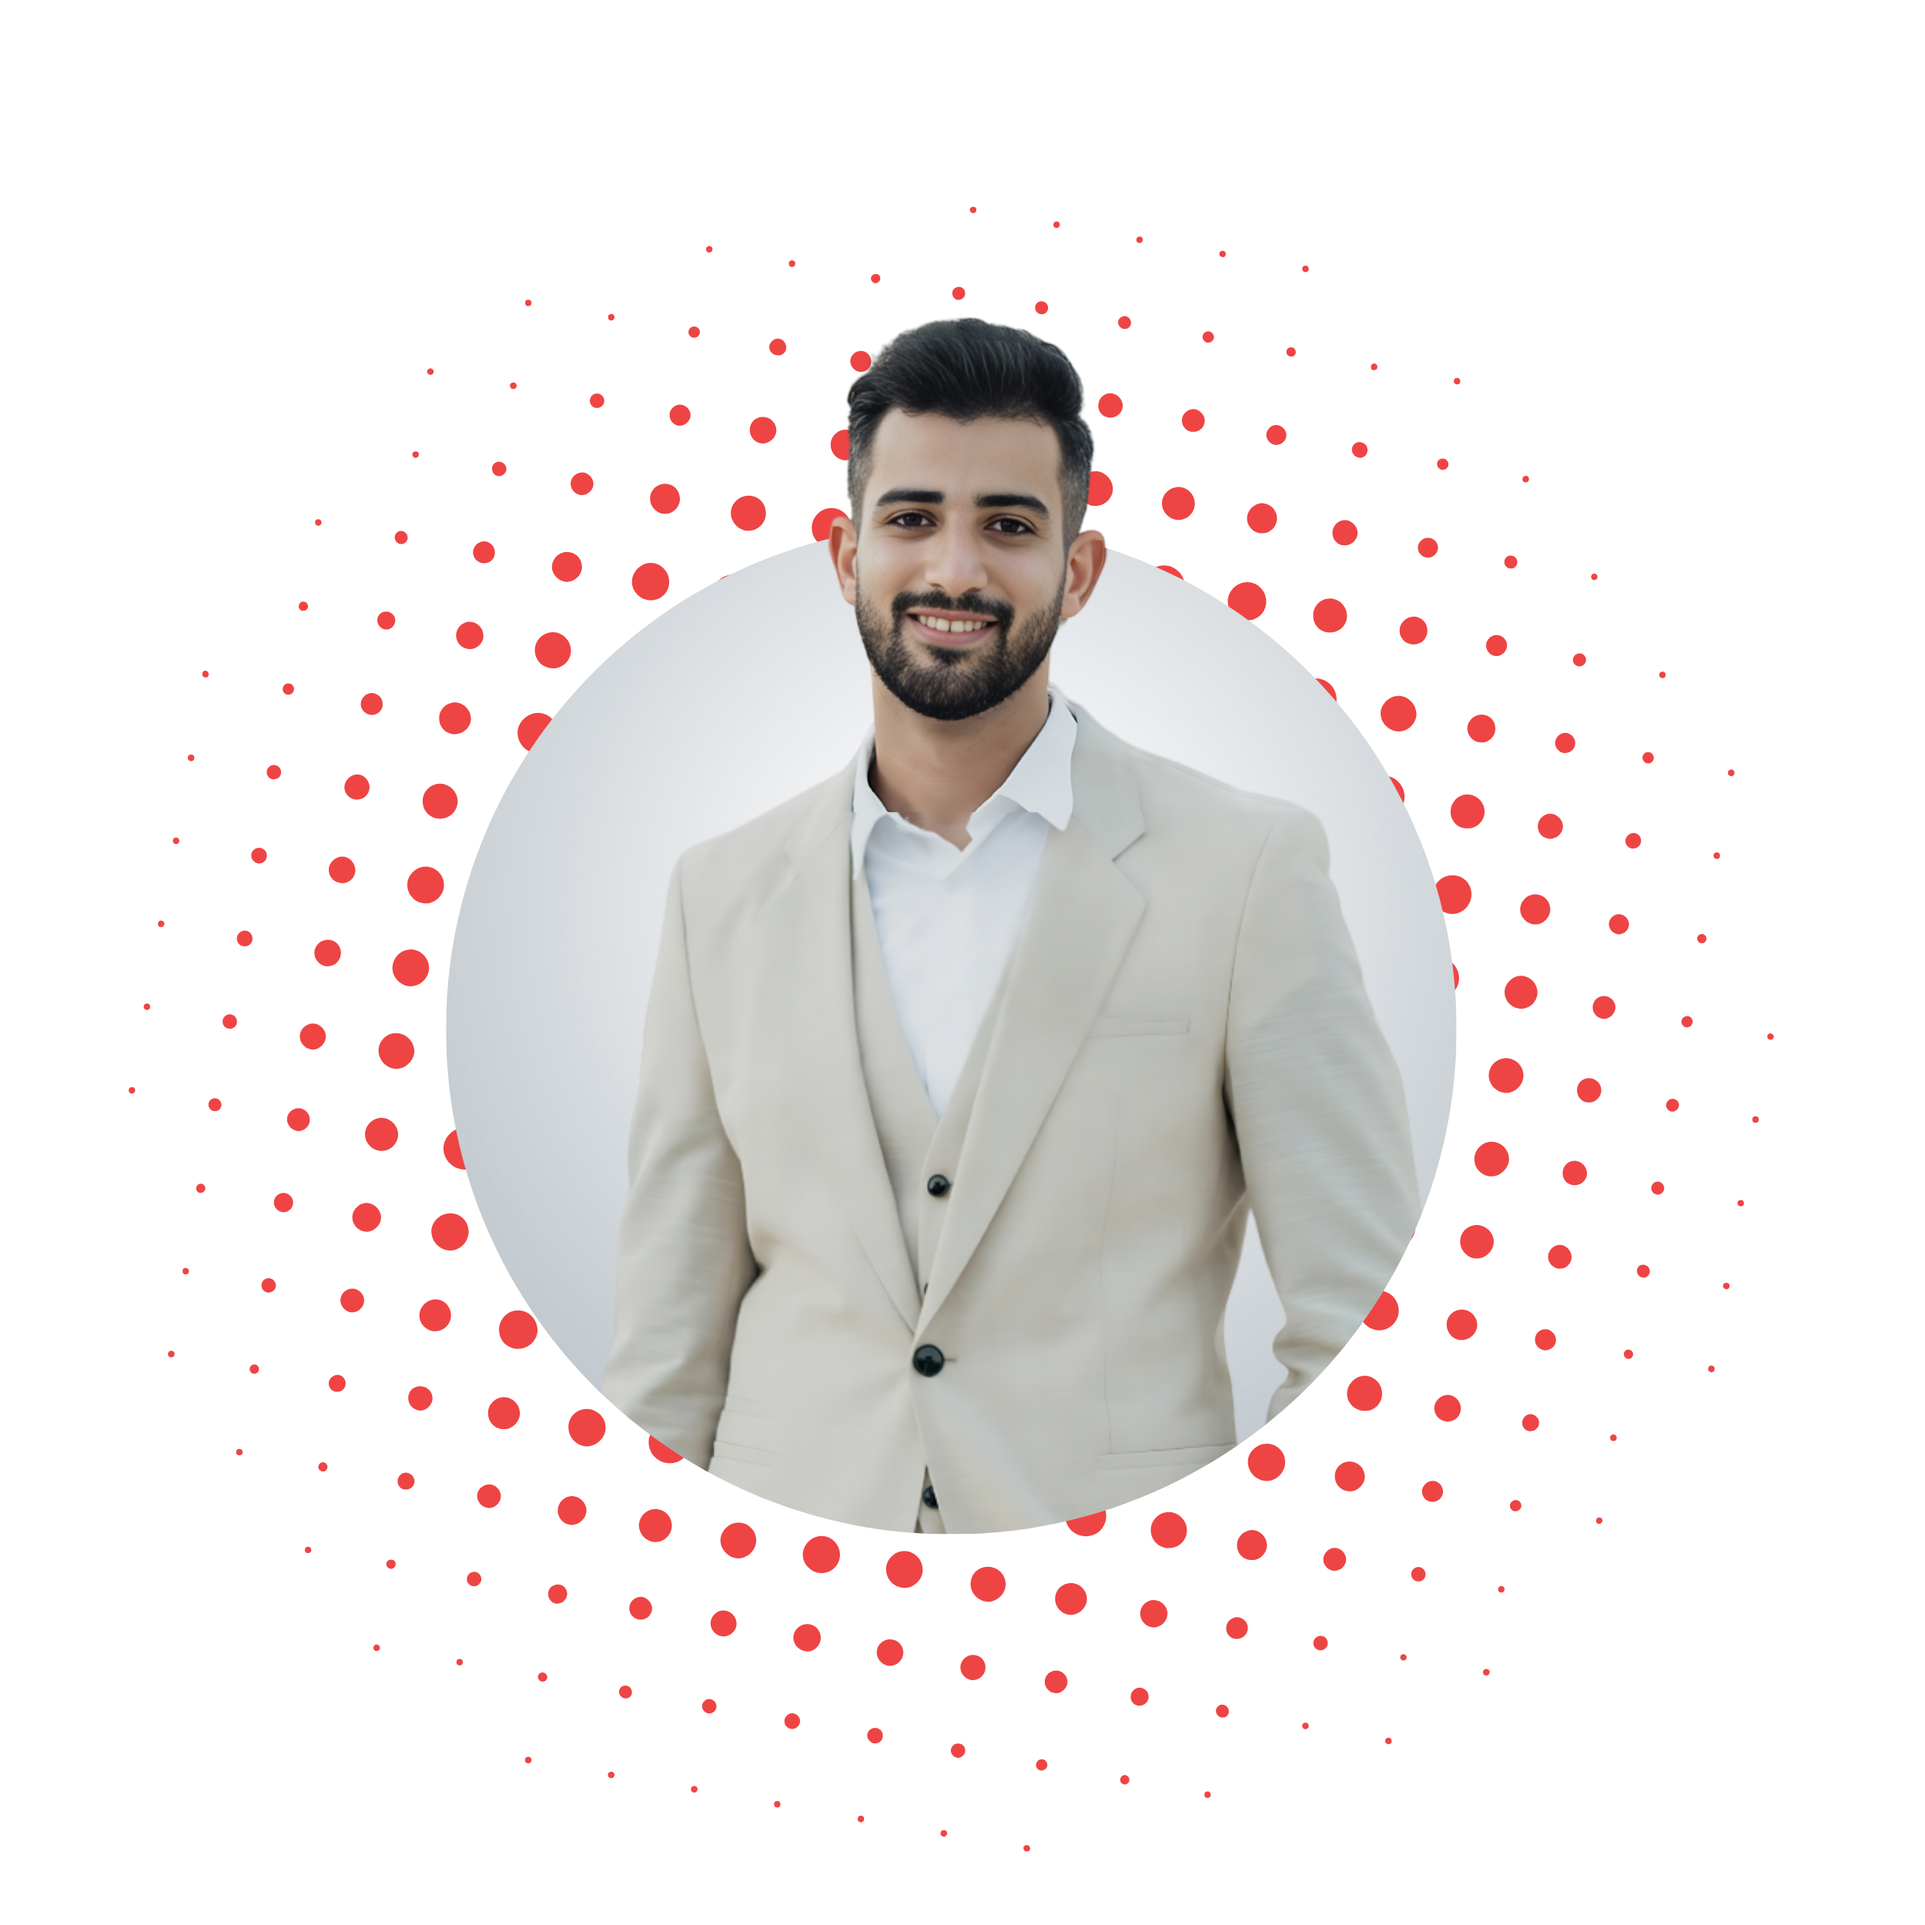
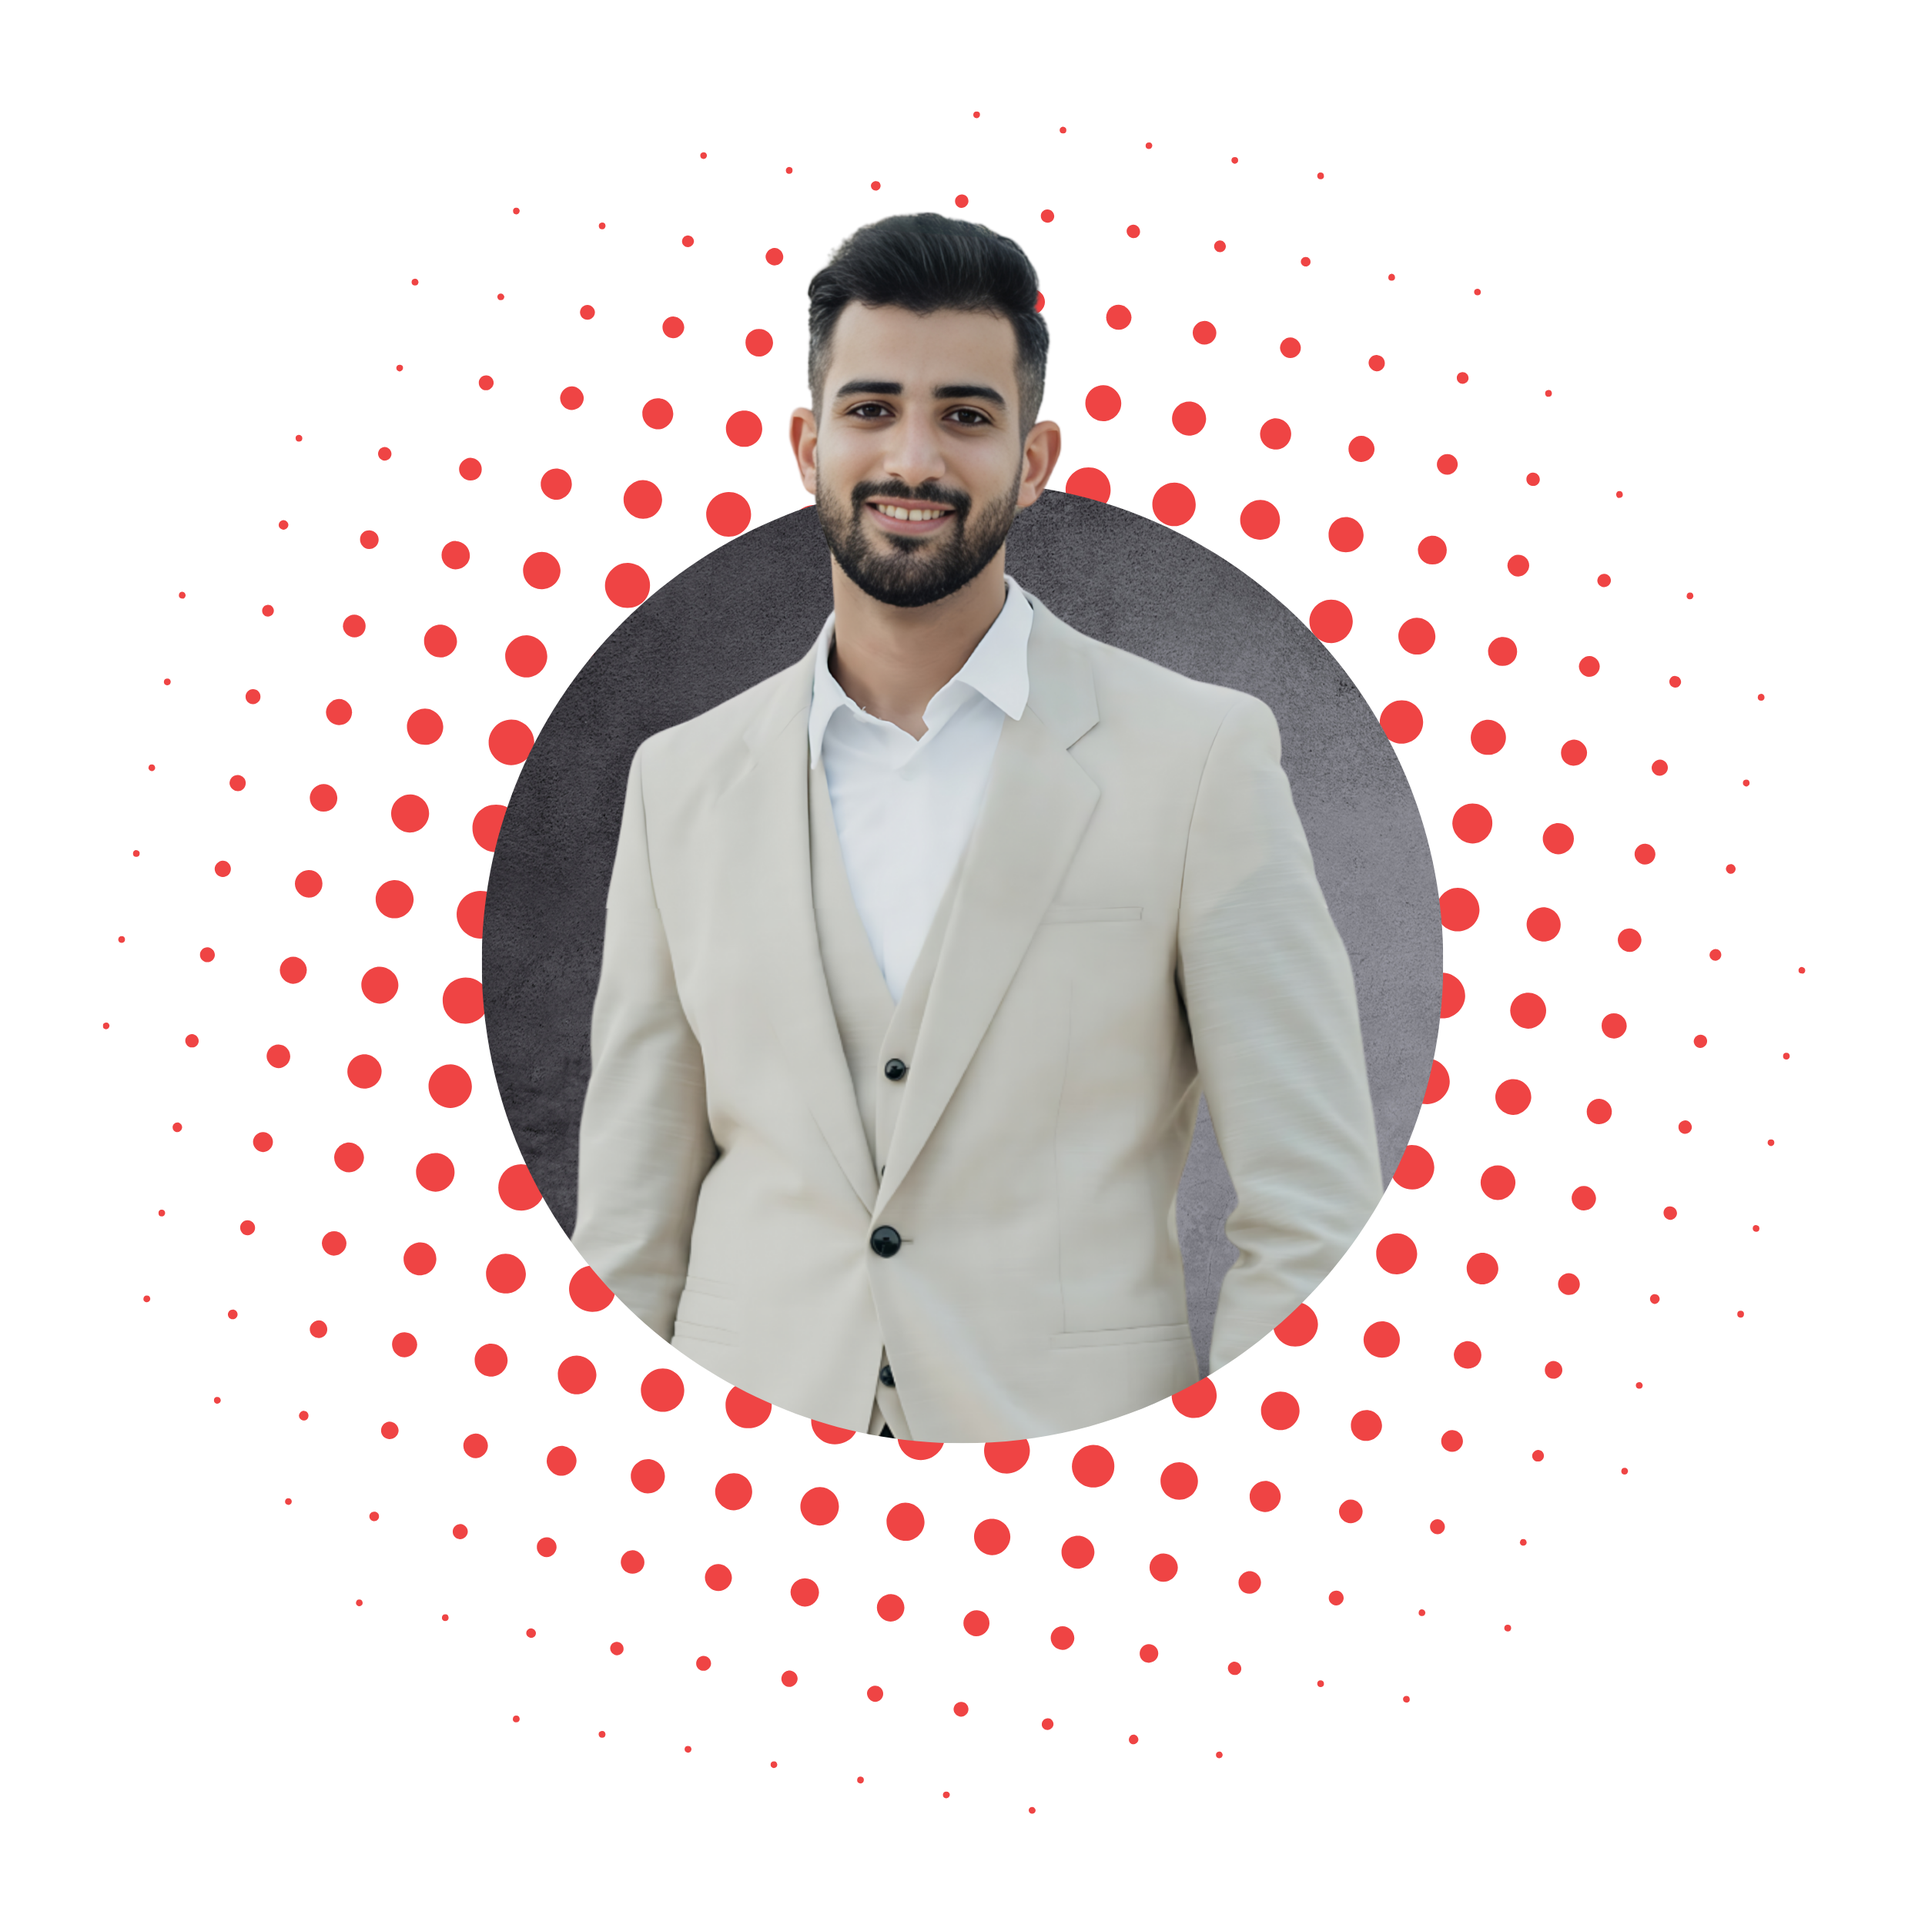
adding my pic

diff --git a/src/app/components/sections/Hero.tsx b/src/app/components/sections/Hero.tsx
@@ -27,6 +27,26 @@ const Hero = () => {
   return (
     <section id="home" className="min-h-screen flex items-center justify-center px-4 sm:px-6 overflow-x-hidden">
       <div className="max-w-7xl w-full mx-auto">
+        
+        {/* Mobile: Centered hero photo at top */}
+        <div className="lg:hidden flex justify-center mb-8">
+          <motion.div
+            initial={{ opacity: 0, scale: 0.8 }}
+            animate={{ opacity: 1, scale: 1 }}
+            transition={{ duration: 0.5 }}
+          >
+            <Image
+              src="/ahmed-hero.png"
+              alt="Ahmed Metwoali"
+              width={250}
+              height={250}
+              className="object-contain w-[200px] h-[200px] sm:w-[250px] sm:h-[250px]"
+              priority
+              quality={85}
+            />
+          </motion.div>
+        </div>
+
         <div className="grid lg:grid-cols-2 gap-8 lg:gap-12 items-center">
           {/* Left side - Terminal and Text */}
           <div>
@@ -37,7 +57,7 @@ const Hero = () => {
               className="mb-8 sm:mb-12"
             >
               {/* Terminal Window */}
-              <div className="bg-zinc-950 border border-zinc-800 rounded-lg overflow-hidden max-w-3xl">
+              <div className="bg-zinc-950 border border-zinc-800 rounded-lg overflow-hidden w-full">
                 <div className="bg-zinc-900 px-4 py-2 flex items-center gap-2 border-b border-zinc-800">
                   <div className="flex gap-2">
                     <div className="w-3 h-3 rounded-full bg-red-500"></div>
@@ -97,20 +117,21 @@ const Hero = () => {
             </motion.div>
           </div>
 
-          {/* Right side - Canva design */}
+          {/* Right side - Desktop only large photo */}
           <motion.div
             initial={{ opacity: 0, scale: 0.8 }}
             animate={{ opacity: 1, scale: 1 }}
             transition={{ duration: 0.7, delay: 0.3 }}
-            className="flex items-center justify-center order-first lg:order-last"
+            className="hidden lg:flex items-center justify-end lg:left-10 relative"
           >
             <Image
               src="/ahmed-hero.png"
               alt="Ahmed Metwoali"
               width={700}
-              height={600}
+              height={700}
               className="object-contain"
               priority
+              quality={85}
             />
           </motion.div>
         </div>
